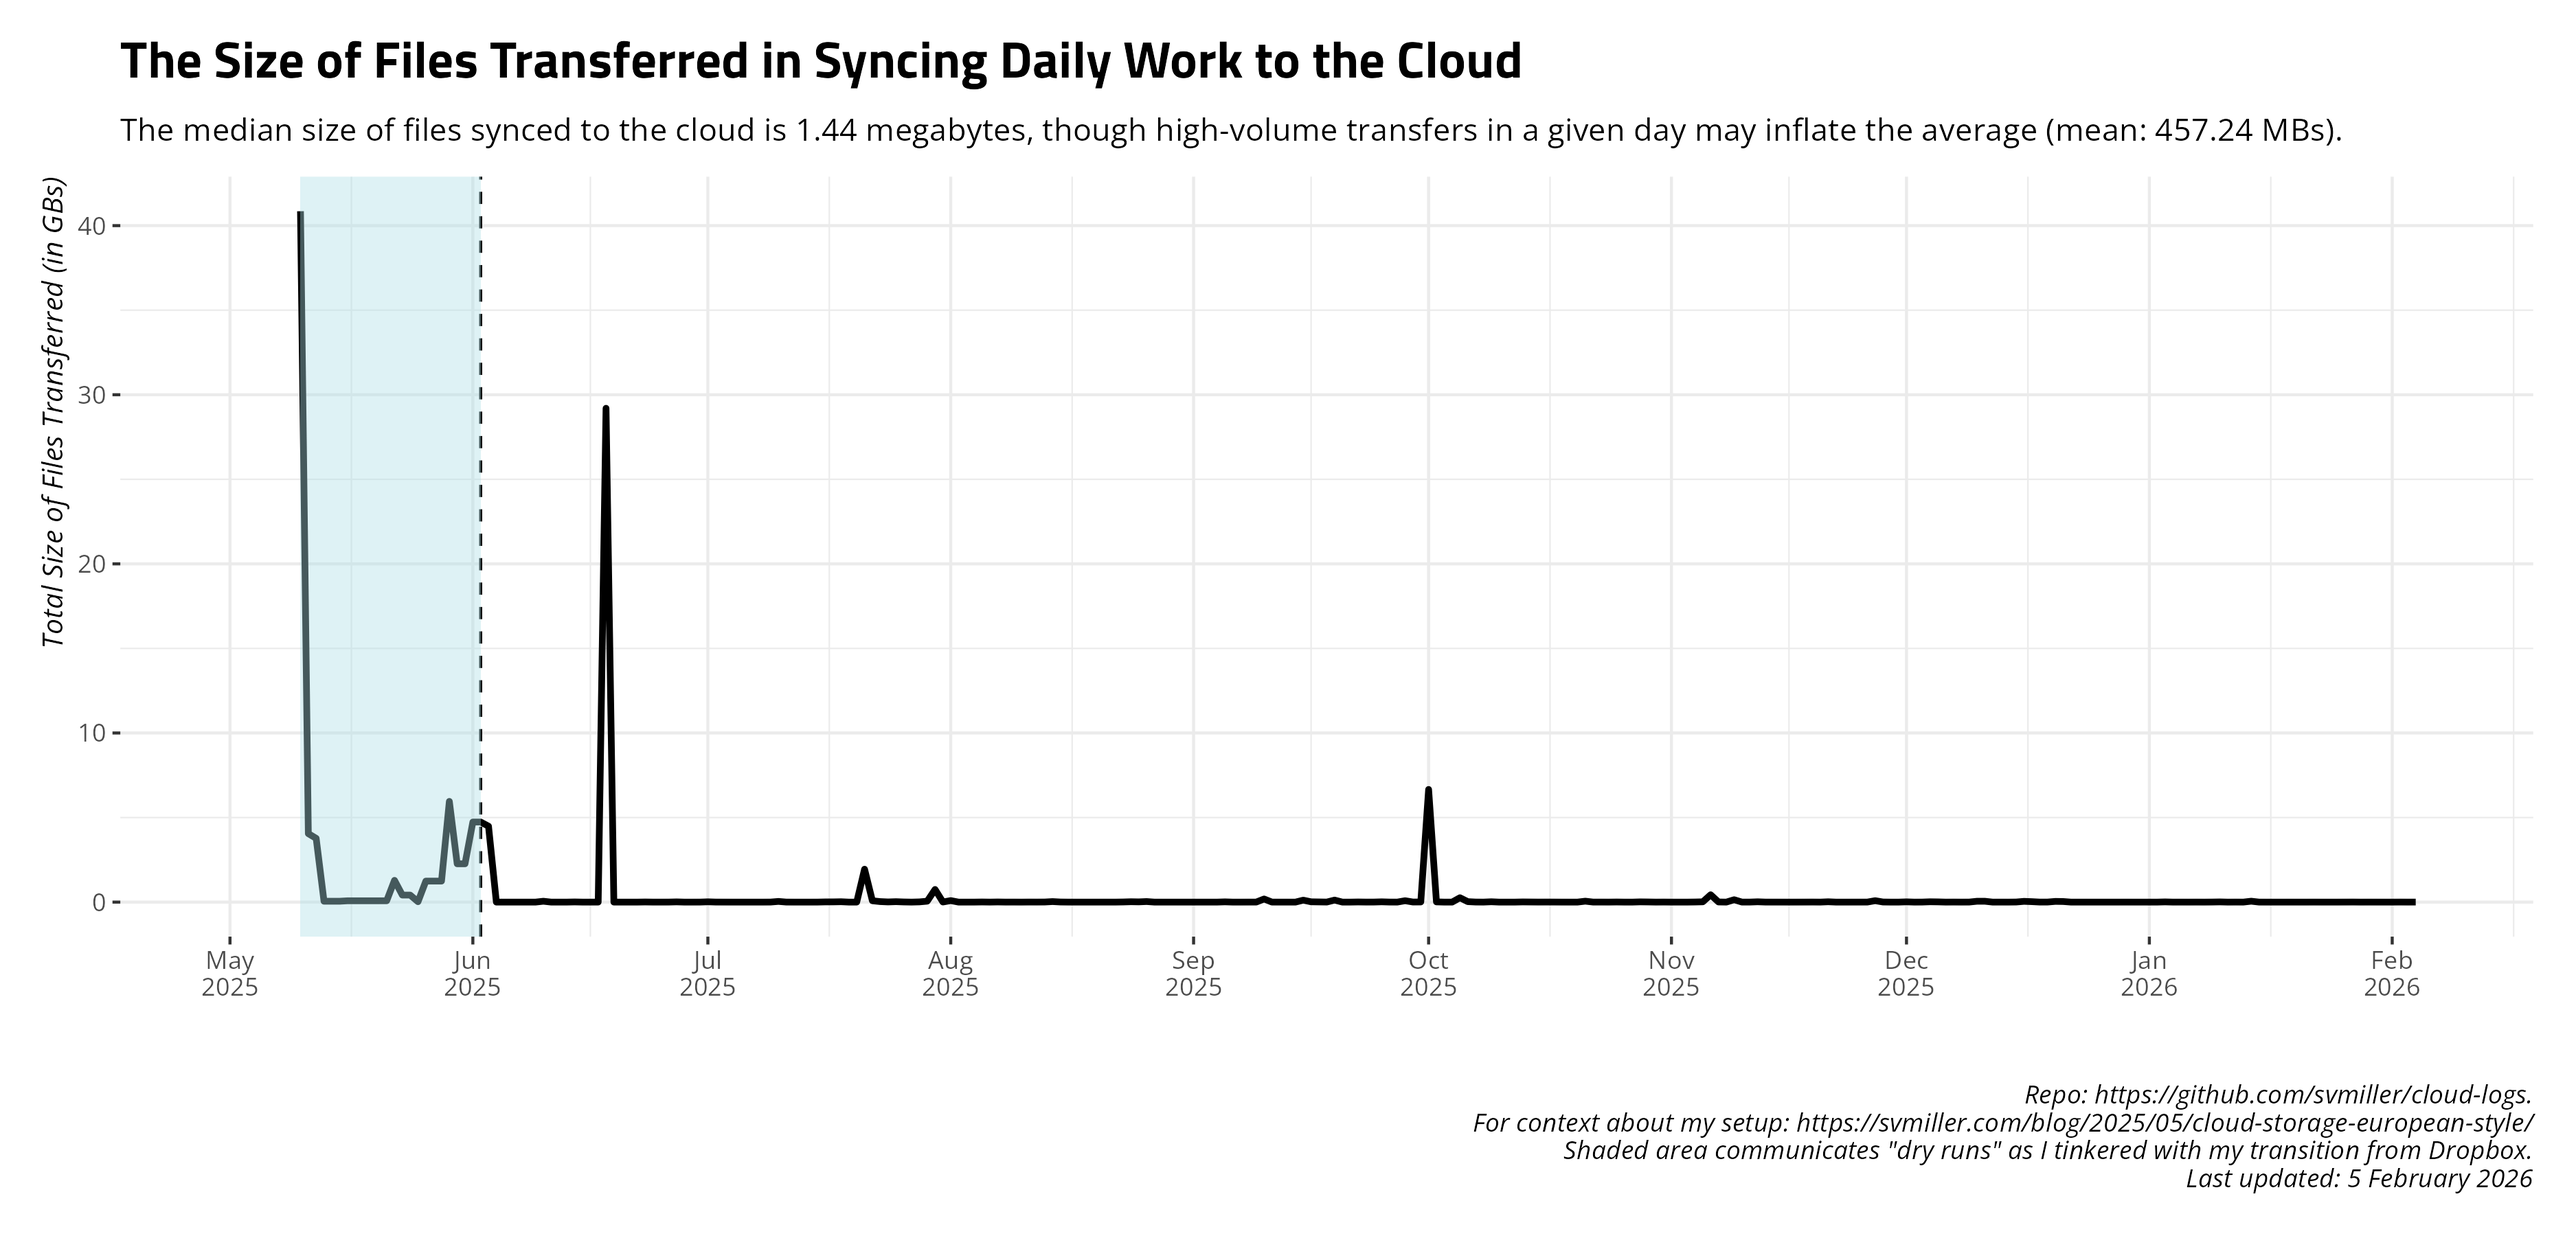
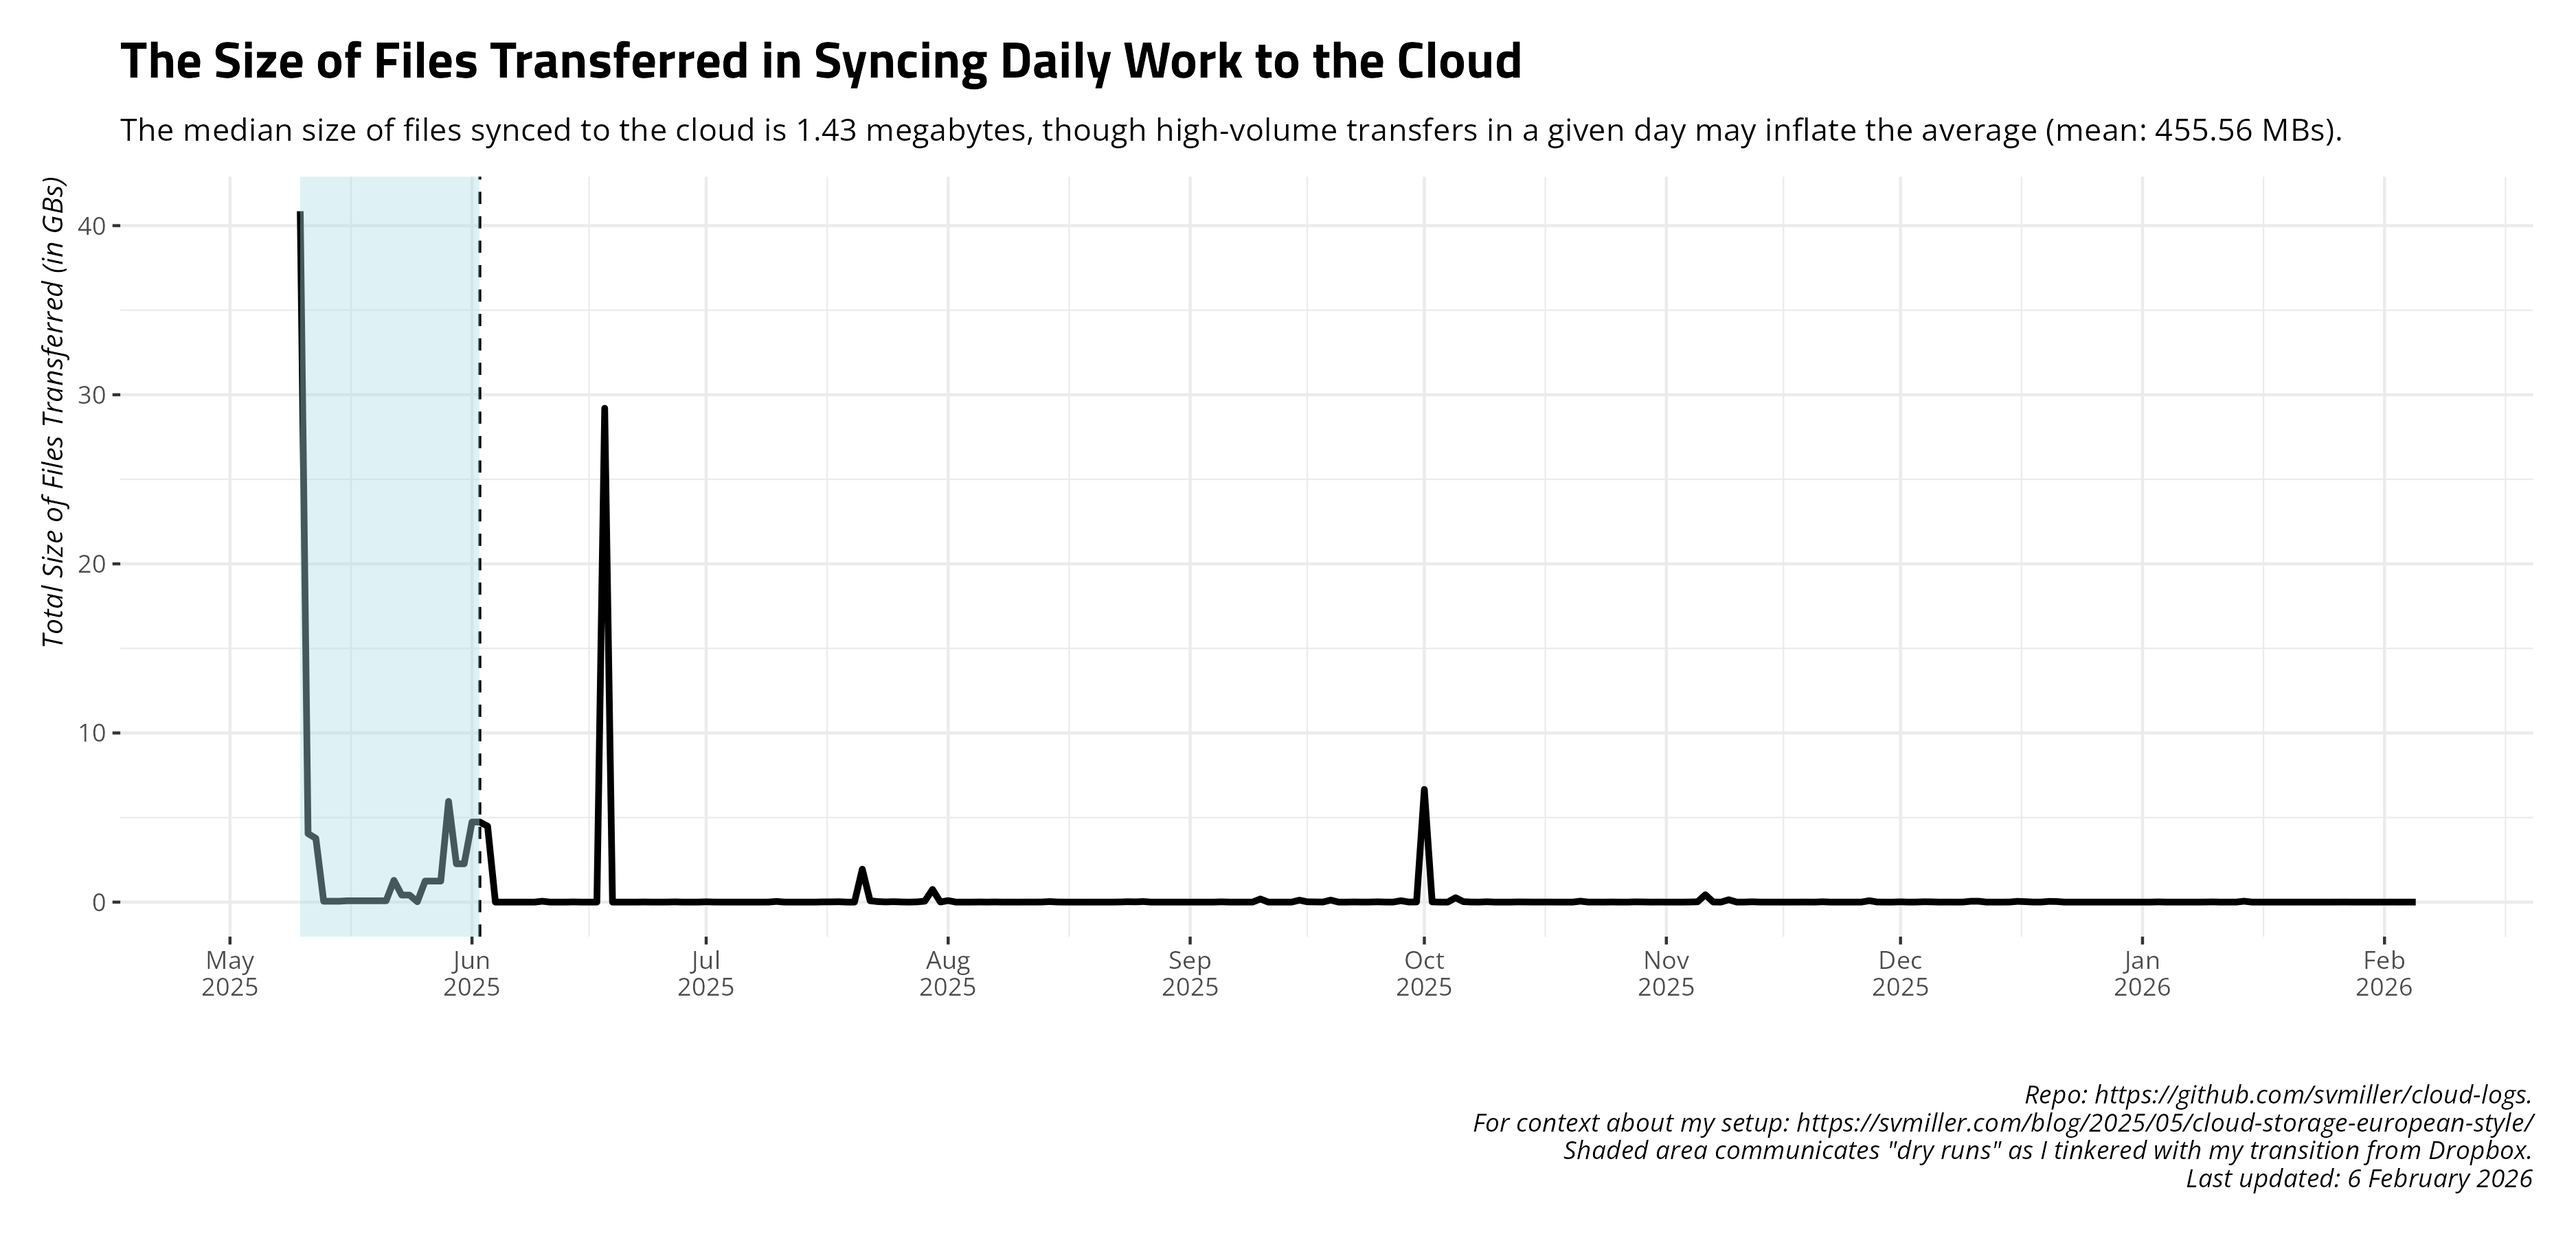
Date: 2026-02-06 09:00:22. Hi mom!

diff --git a/README.md b/README.md
@@ -27,17 +27,17 @@ and uploads to Github.
     #> # A tibble: 14 × 4
     #>    date       ftransfer stransfer   elapsed
     #>    <date>         <dbl> <chr>       <chr>  
-    #>  1 2026-01-22        19 1.012 MiB   6m3.9s 
-    #>  2 2026-01-23         0 <NA>        7m7.9s 
-    #>  3 2026-01-24         0 <NA>        6m51.3s
-    #>  4 2026-01-25        25 115.706 KiB 7m2.1s 
-    #>  5 2026-01-26        24 1.873 MiB   5m13.4s
-    #>  6 2026-01-27        39 3.662 MiB   4m55.8s
-    #>  7 2026-01-28         0 <NA>        5m54.8s
-    #>  8 2026-01-29        69 972.004 KiB 5m46.3s
-    #>  9 2026-01-30        53 449.655 KiB 5m43.3s
-    #> 10 2026-01-31        11 107.900 KiB 5m34.8s
-    #> 11 2026-02-01         1 52.319 KiB  6m32.1s
-    #> 12 2026-02-02        22 2.544 MiB   5m52.9s
-    #> 13 2026-02-03        59 670.650 KiB 6m3.7s 
-    #> 14 2026-02-04        14 2.131 MiB   4m36.0s
+    #>  1 2026-01-23         0 <NA>        7m7.9s 
+    #>  2 2026-01-24         0 <NA>        6m51.3s
+    #>  3 2026-01-25        25 115.706 KiB 7m2.1s 
+    #>  4 2026-01-26        24 1.873 MiB   5m13.4s
+    #>  5 2026-01-27        39 3.662 MiB   4m55.8s
+    #>  6 2026-01-28         0 <NA>        5m54.8s
+    #>  7 2026-01-29        69 972.004 KiB 5m46.3s
+    #>  8 2026-01-30        53 449.655 KiB 5m43.3s
+    #>  9 2026-01-31        11 107.900 KiB 5m34.8s
+    #> 10 2026-02-01         1 52.319 KiB  6m32.1s
+    #> 11 2026-02-02        22 2.544 MiB   5m52.9s
+    #> 12 2026-02-03        59 670.650 KiB 6m3.7s 
+    #> 13 2026-02-04        14 2.131 MiB   4m36.0s
+    #> 14 2026-02-05        10 255.844 KiB 4m19.8s
